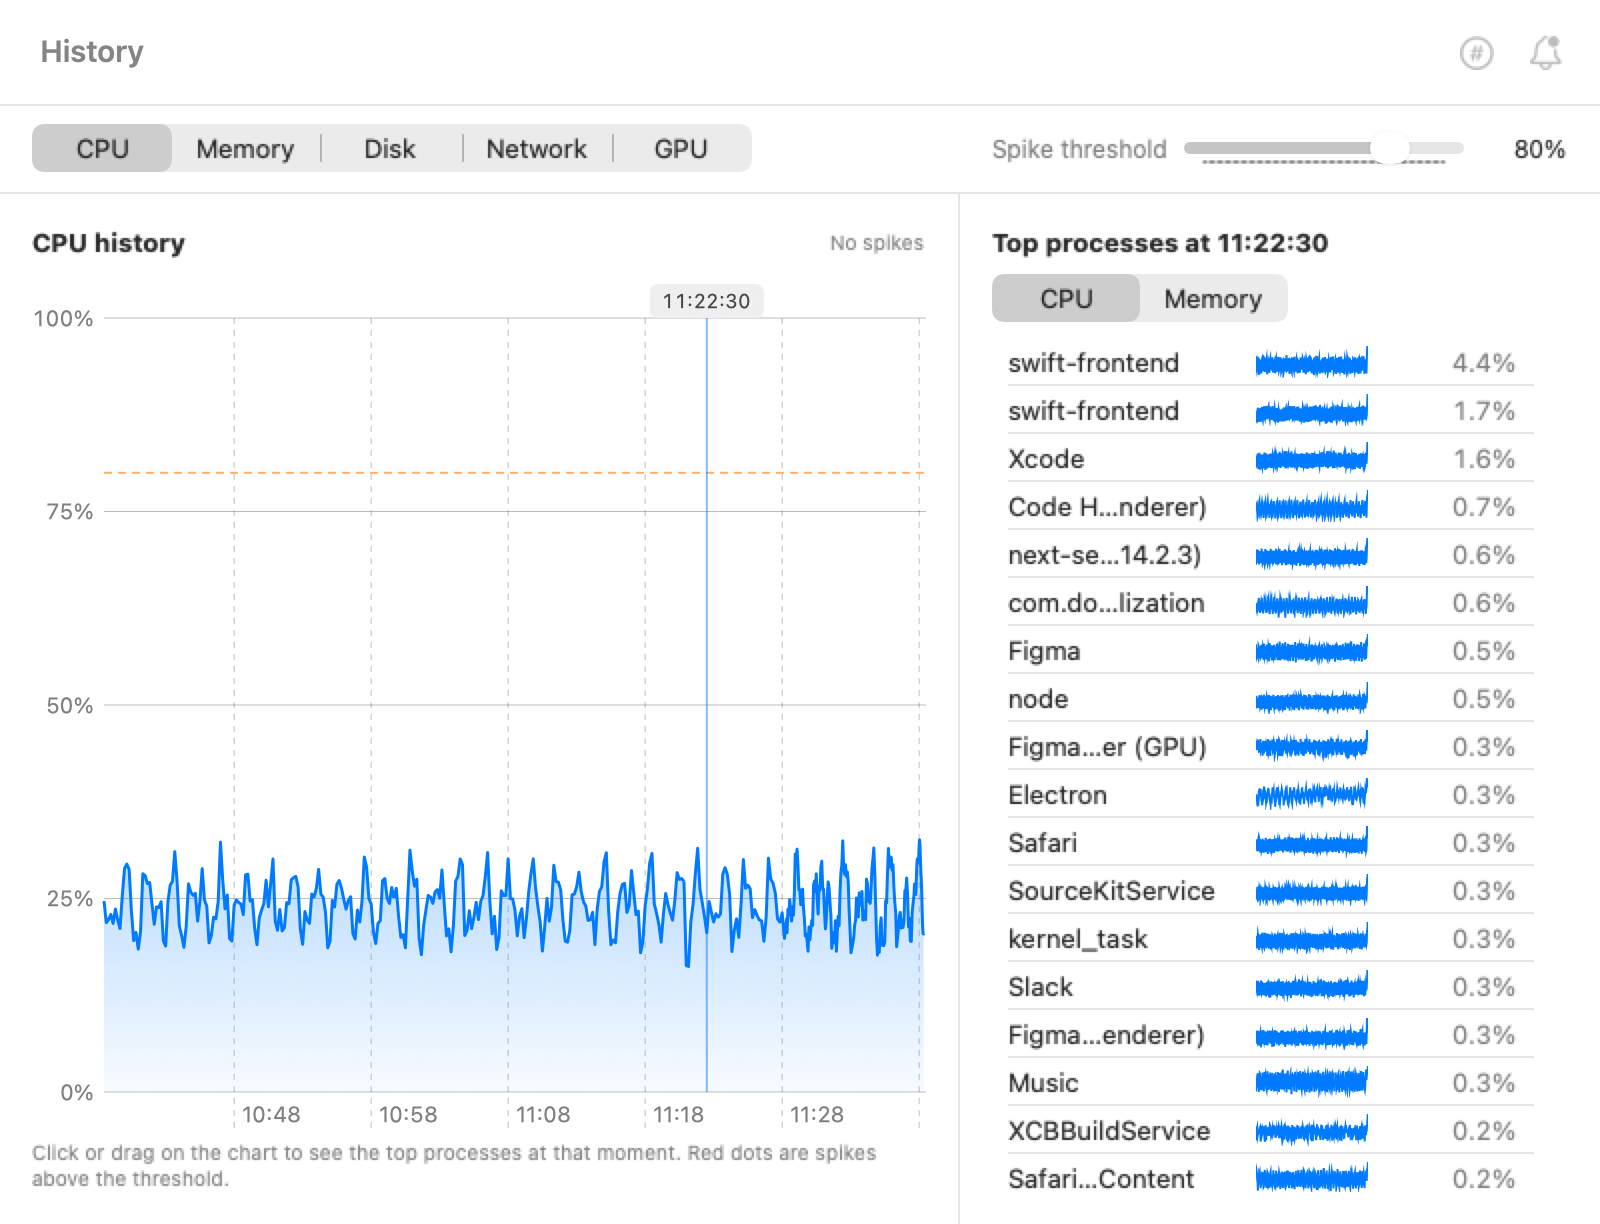
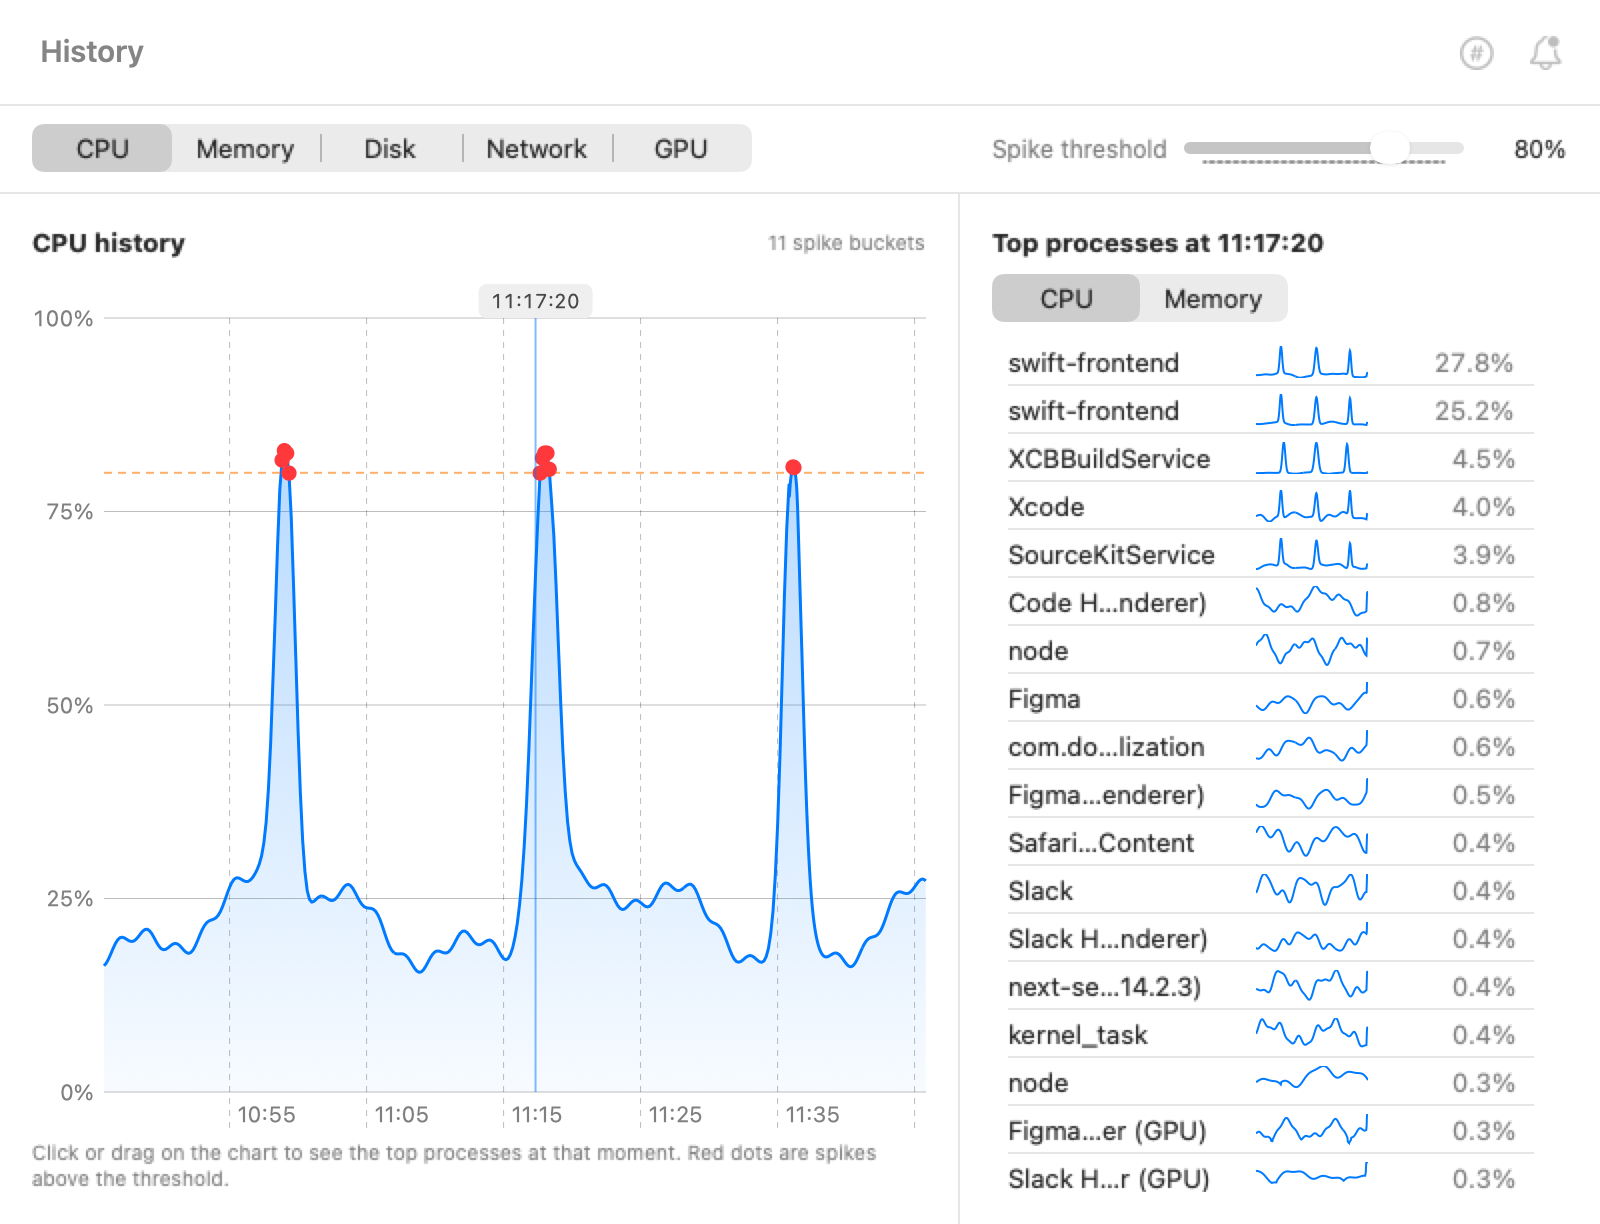
fix(debug): smoother demo history, realistic launchd paths, more listeners

diff --git a/ProcLens/Debug/Demo/DemoWorld.swift b/ProcLens/Debug/Demo/DemoWorld.swift
@@ -12,7 +12,7 @@ import ProcLensCore
 struct DemoWave: Sendable {
     var phase: (Double, Double, Double)
     var rate: (Double, Double, Double)
-    static let amplitude = (0.5, 0.25, 0.15)
+    static let amplitude = (0.55, 0.3, 0.1)
 
     /// Multiplier around 1.0, never below 0.1.
     func factor(_ t: Double) -> Double {
@@ -47,7 +47,10 @@ struct DemoProc: Sendable {
     var id: ProcessID { ProcessID(pid: pid, startTime: startTime) }
     var startAbs: UInt64 { startTime &* 1000 }
 
-    func cpuNow(_ t: Double) -> Double { restricted ? 0 : cpu * wave.factor(t) }
+    func cpuNow(_ t: Double) -> Double {
+        if restricted { return 0 }
+        return cpu * wave.factor(t) + DemoWorld.burst(t) * DemoWorld.burstCores(for: name)
+    }
     func memoryNow(_ t: Double) -> UInt64 {
         restricted ? 0 : UInt64(memory * (1 + 0.025 * sin(0.05 * t + wave.phase.1) + 0.01 * sin(0.4 * t + wave.phase.0)))
     }
@@ -74,6 +77,28 @@ enum DemoWorld {
     ]
 
     static var now: Double { Date().timeIntervalSince(epoch) }
+
+    /// Three past "builds" (seconds relative to launch) that push the machine over 80%. Shape is a smooth bump, 0...1.
+    private static let bursts: [(center: Double, width: Double, peak: Double)] = [(-2_760, 55, 1.0), (-1_620, 70, 0.97), (-540, 50, 0.93)]
+    static func burst(_ t: Double) -> Double {
+        var b = 0.0
+        for burst in bursts where abs(t - burst.center) < burst.width * 4 {
+            let x = (t - burst.center) / burst.width
+            b = max(b, burst.peak * exp(-x * x))
+        }
+        return b
+    }
+    /// Extra cores a process burns at burst = 1.
+    static func burstCores(for name: String) -> Double {
+        switch name {
+        case "swift-frontend": 5.5
+        case "Xcode", "SourceKitService": 0.8
+        case "XCBBuildService": 1.0
+        default: 0
+        }
+    }
+    /// Seconds-ago of the middle burst (for `-ProcLensHistoryAt`).
+    static let pinnedBurstAgo = 1_620.0
 
     struct App: Sendable {
         let pid: pid_t
@@ -136,7 +161,7 @@ enum DemoWorld {
             used.insert(p)
             let wave = DemoWave(
                 phase: (rng.range(0, 6.28), rng.range(0, 6.28), rng.range(0, 6.28)),
-                rate: (rng.range(0.05, 0.14), rng.range(0.15, 0.32), rng.range(0.4, 0.9)))
+                rate: (rng.range(0.002, 0.005), rng.range(0.006, 0.012), rng.range(0.012, 0.022)))
             let start = UInt64((base - age - rng.range(0, 600)) * 1_000_000)
             list.append(DemoProc(pid: p, ppid: ppid, uid: uid, name: name, path: path, argv: argv ?? [path ?? name],
                                  restricted: restricted, cpu: cpu, memory: mb * 1_048_576, threads: threads,
@@ -288,14 +313,14 @@ enum DemoWorld {
         add("figma_agent", path: "/Users/demo/Library/Application Support/Figma/FigmaAgent.app/Contents/MacOS/figma_agent",
             mb: 38, cpu: 0.002, threads: 6, age: 30 * 3600)
 
-        let code = app("Visual Studio Code", bundle: "Visual Studio Code", id: "com.microsoft.VSCode", exe: "Electron",
+        let code = app("Visual Studio Code", bundle: "Visual Studio Code", id: "com.microsoft.VSCode", exe: "Code",
                        mb: 318, cpu: 0.04, threads: 30, age: 6 * 3600, disk: 55_000)
         let cd = "/Applications/Visual Studio Code.app/Contents/Frameworks/Code Helper"
         add("Code Helper (GPU)", path: "\(cd) (GPU).app/Contents/MacOS/Code Helper (GPU)", ppid: code, mb: 186, cpu: 0.03, threads: 14, age: 6 * 3600)
         add("Code Helper (Renderer)", path: "\(cd) (Renderer).app/Contents/MacOS/Code Helper (Renderer)", ppid: code, mb: 612, cpu: 0.07, threads: 22, age: 6 * 3600)
         let ext = add("Code Helper (Plugin)", path: "\(cd) (Plugin).app/Contents/MacOS/Code Helper (Plugin)", ppid: code, mb: 448, cpu: 0.05, threads: 18, age: 6 * 3600, disk: 20_000)
         add("Code Helper", path: "\(cd).app/Contents/MacOS/Code Helper", ppid: code, mb: 92, cpu: 0.006, threads: 10, age: 6 * 3600)
-        add("node", path: "/opt/homebrew/Cellar/node/22.11.0/bin/node",
+        let tsserver = add("node", path: "/opt/homebrew/Cellar/node/22.11.0/bin/node",
             argv: ["/opt/homebrew/Cellar/node/22.11.0/bin/node", "/Users/demo/projects/webapp/node_modules/typescript/lib/tsserver.js", "--useInferredProjectPerProjectRoot"],
             ppid: ext, mb: 524, cpu: 0.08, threads: 11, age: 5 * 3600, disk: 30_000)
 
@@ -354,6 +379,7 @@ enum DemoWorld {
         }
 
         let controlCenter = list.first { $0.name == "ControlCenter" }!.pid
+        func pidOf(_ name: String) -> pid_t { list.first { $0.name == name }!.pid }
         listeners = [
             DemoListener(port: 3000, pid: next, loopbackOnly: false),
             DemoListener(port: 5173, pid: vite, loopbackOnly: true),
@@ -361,6 +387,11 @@ enum DemoWorld {
             DemoListener(port: 6379, pid: redis, loopbackOnly: true),
             DemoListener(port: 7000, pid: controlCenter, loopbackOnly: false),
             DemoListener(port: 8000, pid: django, loopbackOnly: true),
+            DemoListener(port: 5000, pid: controlCenter, loopbackOnly: false),
+            DemoListener(port: 8080, pid: pidOf("com.docker.backend"), loopbackOnly: true),
+            DemoListener(port: 9229, pid: tsserver, loopbackOnly: true),
+            DemoListener(port: 11434, pid: pidOf("ollama"), loopbackOnly: true),
+            DemoListener(port: 49152, pid: pidOf("rapportd"), loopbackOnly: false),
         ]
         return Built(processes: list, apps: apps, listeners: listeners,
                      byPID: Dictionary(uniqueKeysWithValues: list.map { ($0.pid, $0) }),
@@ -391,15 +422,14 @@ enum DemoWorld {
 
     static func cpuSample(at t: Double) -> CPUSample {
         prepare()
-        var cores = 0.0
-        for p in processes { cores += p.cpuNow(t) }
-        cores += 1.1 * hiddenWave.factor(t)
-        let target = min(0.92, cores / Double(coreCount))
+        let baseline = 0.22 + 0.045 * sin(0.0042 * t + 0.6) + 0.025 * sin(0.013 * t + 2.0) + 0.008 * sin(0.05 * t)
+        let b = burst(t)
+        let target = min(0.95, baseline + b * (0.93 - baseline))
         var raw: [Double] = []
         for i in 0..<coreCount {
             let efficiency = i < efficiencyCores
-            let w = 1 + 0.55 * sin(0.12 * t + Double(i) * 1.7) + 0.2 * sin(0.45 * t + Double(i) * 0.9)
-            raw.append(max(0.02, (efficiency ? 1.35 : 0.85) * w))
+            let w = 1 + 0.35 * sin(0.03 * t + Double(i) * 1.7) + 0.15 * sin(0.09 * t + Double(i) * 0.9)
+            raw.append(max(0.02, (efficiency ? 1.25 : 0.9) * w))
         }
         let mean = raw.reduce(0, +) / Double(raw.count)
         let scale = target / mean

diff --git a/ProcLens/Debug/Demo/DemoLaunchd.swift b/ProcLens/Debug/Demo/DemoLaunchd.swift
@@ -30,12 +30,12 @@ enum DemoLaunchd {
         Job(label: "com.docker.helper", scope: .userAgent,
             arguments: ["/Applications/Docker.app/Contents/MacOS/com.docker.backend", "services"],
             keepAlive: true, signer: "Docker Inc", team: "DEMODOC001", runningProcess: "com.docker.backend"),
-        Job(label: "org.postgresql.postgres", scope: .userAgent,
+        Job(label: "homebrew.mxcl.postgresql@16", scope: .userAgent,
             arguments: ["/opt/homebrew/opt/postgresql@16/bin/postgres", "-D", "/opt/homebrew/var/postgresql@16"],
-            keepAlive: true, runningProcess: "postgres"),
+            keepAlive: true, signer: "Homebrew", runningProcess: "postgres"),
         Job(label: "homebrew.mxcl.redis", scope: .userAgent,
             arguments: ["/opt/homebrew/opt/redis/bin/redis-server", "/opt/homebrew/etc/redis.conf"],
-            keepAlive: true, runningProcess: "redis-server"),
+            keepAlive: true, signer: "Homebrew", runningProcess: "redis-server"),
         Job(label: "com.microsoft.VSCode.ShipIt", scope: .userAgent,
             arguments: ["/Users/demo/Library/Caches/com.microsoft.VSCode.ShipIt/ShipIt", "com.microsoft.VSCode.ShipIt", "--launch"],
             runAtLoad: false, watchPaths: ["/Users/demo/Library/Caches/com.microsoft.VSCode.ShipIt/ShipItState.plist"],
@@ -84,6 +84,26 @@ enum DemoLaunchd {
 
     // MARK: - Plists
 
+    /// Where the job's plist appears to live (the real files sit in a scratch directory).
+    static func displayPath(label: String, scope: LaunchdScope) -> String {
+        let dir: String = switch scope {
+        case .userAgent: "/Users/demo/Library/LaunchAgents"
+        case .globalAgent: "/Library/LaunchAgents"
+        case .globalDaemon: "/Library/LaunchDaemons"
+        case .appleAgent: "/System/Library/LaunchAgents"
+        case .appleDaemon: "/System/Library/LaunchDaemons"
+        }
+        return "\(dir)/\(label).plist"
+    }
+
+    static func relocated(_ items: [LaunchdItemStatus]) -> [LaunchdItemStatus] {
+        items.map { status in
+            var s = status
+            s.item.plistPath = displayPath(label: s.item.label, scope: s.item.scope)
+            return s
+        }
+    }
+
     static let root: URL = {
         let dir = URL(fileURLWithPath: "/private/tmp/proclens-demo", isDirectory: true)
         try? FileManager.default.removeItem(at: dir)
@@ -98,7 +118,7 @@ enum DemoLaunchd {
             if let calendar = job.calendar { plist["StartCalendarInterval"] = calendar }
             if !job.watchPaths.isEmpty { plist["WatchPaths"] = job.watchPaths }
             if !job.machServices.isEmpty { plist["MachServices"] = Dictionary(uniqueKeysWithValues: job.machServices.map { ($0, true) }) }
-            if job.scope == .userAgent, job.label.hasPrefix("org.") || job.label.hasPrefix("homebrew") {
+            if job.label.hasPrefix("homebrew") {
                 plist["StandardOutPath"] = "/opt/homebrew/var/log/\(job.label).log"
             }
             let name: String = switch job.scope {
@@ -160,7 +180,7 @@ struct DemoLaunchctlRunner: LaunchctlRunning {
                 return LaunchctlOutput(status: 113, stdout: "", stderr: "Could not find service \"\(label)\" in domain for \(target)")
             }
             let pid = job.runningProcess.flatMap { n in DemoWorld.processes.first { $0.name == n }.map { Int($0.pid) } }
-            var text = "\(target) = {\n\tactive count = \(pid == nil ? 0 : 1)\n\tpath = \(DemoLaunchd.root.path)/\(job.label).plist\n\ttype = LaunchAgent\n"
+            var text = "\(target) = {\n\tactive count = \(pid == nil ? 0 : 1)\n\tpath = \(DemoLaunchd.displayPath(label: job.label, scope: job.scope))\n\ttype = LaunchAgent\n"
             text += "\tstate = \(pid == nil ? "not running" : "running")\n\tprogram = \(job.arguments[0])\n\targuments = {\n"
             text += job.arguments.map { "\t\t\($0)\n" }.joined() + "\t}\n\tdomain = \(target.split(separator: "/").first.map(String.init) ?? "gui/501") [100003]\n"
             if let pid { text += "\tpid = \(pid)\n\truns = 1\n\tlast exit code = (never exited)\n" } else { text += "\truns = 0\n\tlast exit code = 0\n" }

diff --git a/ProcLens/Features/Startup/StartupViewModel.swift b/ProcLens/Features/Startup/StartupViewModel.swift
@@ -49,6 +49,9 @@ final class StartupViewModel {
         helperEnabled = services.helper.registrationStatus() == .enabled
         let snapshot = await services.launchd.snapshot()
         items = snapshot.items
+        #if DEBUG
+        if DemoMode.isActive { items = DemoLaunchd.relocated(items) }
+        #endif
         invalid = snapshot.invalid
         warnings = snapshot.warnings
         #if DEBUG

diff --git a/ProcLens/Features/Services/ServicesViewModel.swift b/ProcLens/Features/Services/ServicesViewModel.swift
@@ -31,6 +31,9 @@ final class ServicesViewModel {
         helperEnabled = services.helper.registrationStatus() == .enabled
         let snapshot = await services.launchd.snapshot()
         items = snapshot.items
+        #if DEBUG
+        if DemoMode.isActive { items = DemoLaunchd.relocated(items) }
+        #endif
     }
 
     var filtered: [LaunchdItemStatus] {
